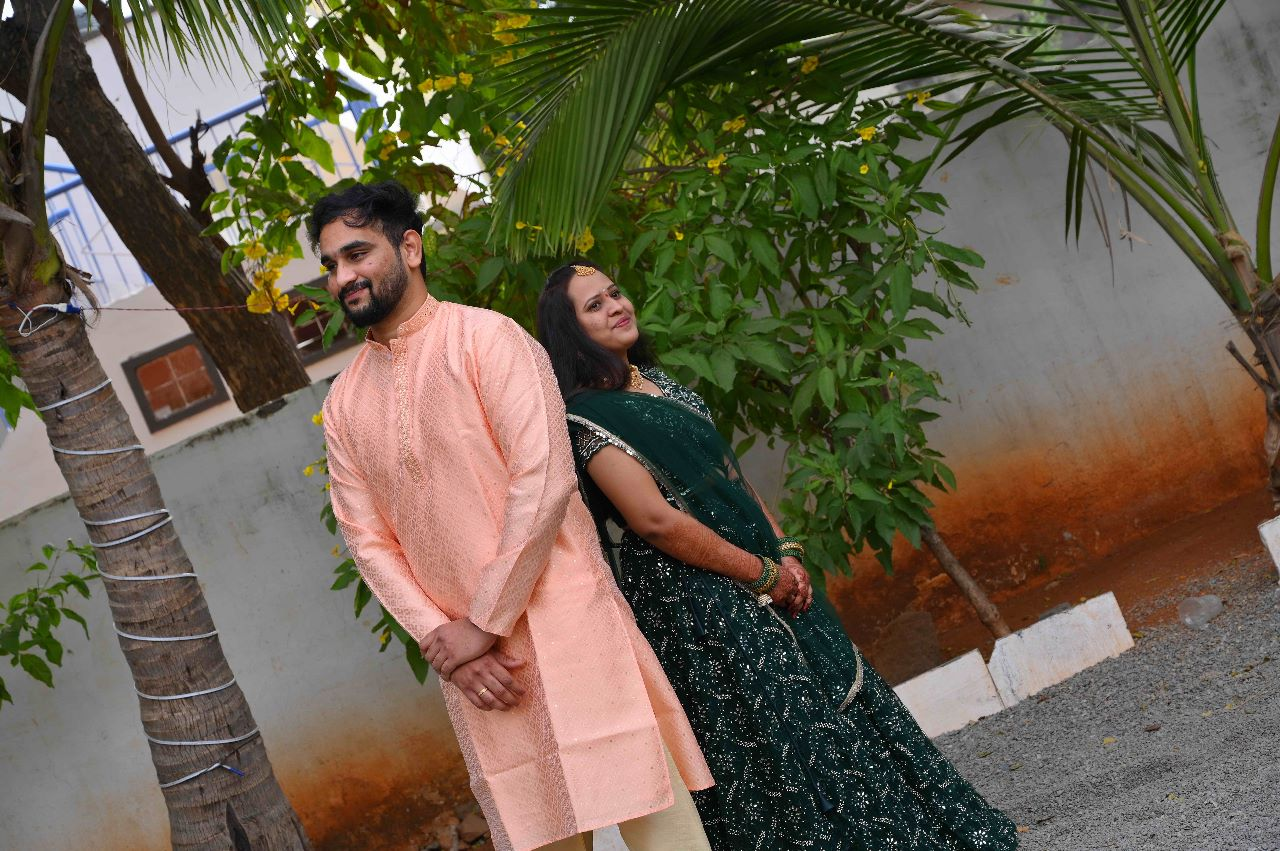
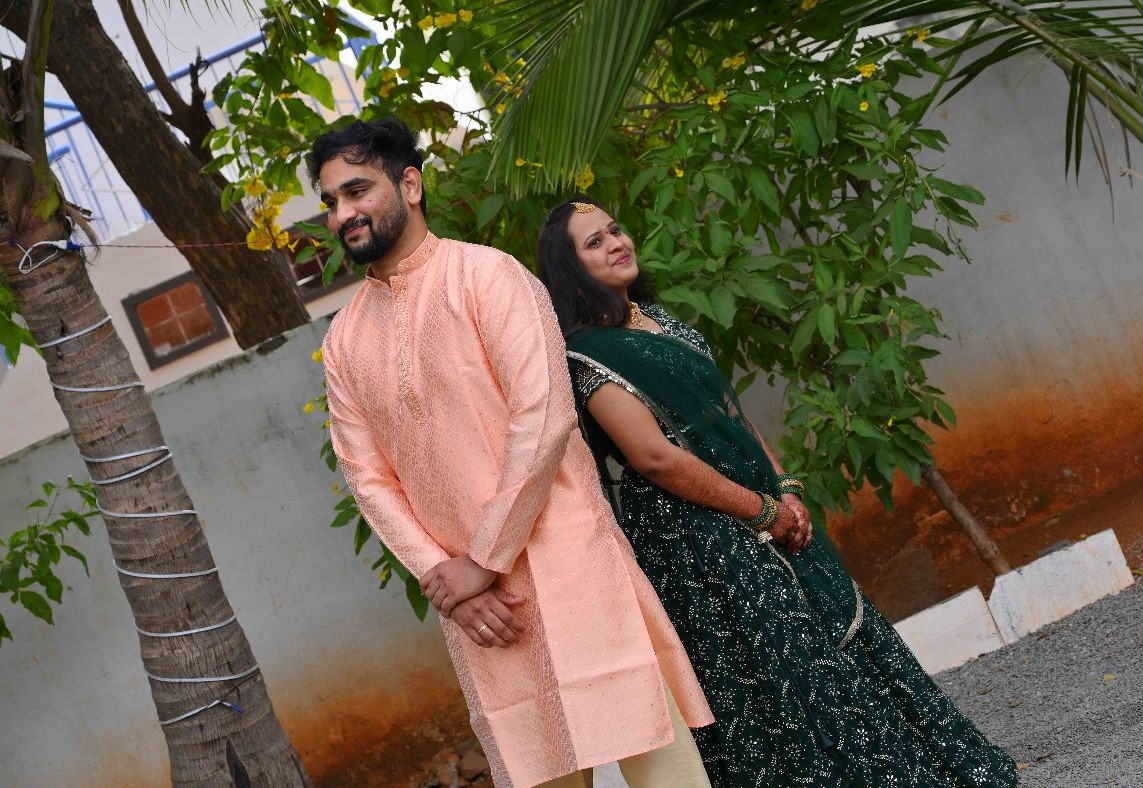
Updated scripts 21 01

diff --git a/index.html b/index.html
@@ -415,9 +415,9 @@
                 </div>
 				<div class="col-lg-4 col-md-6 mb-4 portfolio-item first">
                     <div class="position-relative mb-2">
-                        <img class="img-fluid w-100" src="img/DSC_6876.jpg" alt="">
+                        <img class="img-fluid w-100" src="img/Akka Bava.jpg" alt="">
                         <div class="bg-secondary text-center p-4">
-                            <h4 class="mb-3">Raghu, Teja & Rithu</h4>
+                            <h4 class="mb-3">Raghu, Teja, Rithu</h4>
                             <p class="text-uppercase">Akka Bava</p>
                             <div class="d-inline-block">
                             </div>
@@ -457,6 +457,7 @@
                         </div>
                     </div>
                 </div>
+
 				<div class="col-lg-4 col-md-6 mb-4 portfolio-item first">
                     <div class="position-relative mb-2">
                         <img class="img-fluid w-100" src="img/DSC_6443.jpg" alt="">
